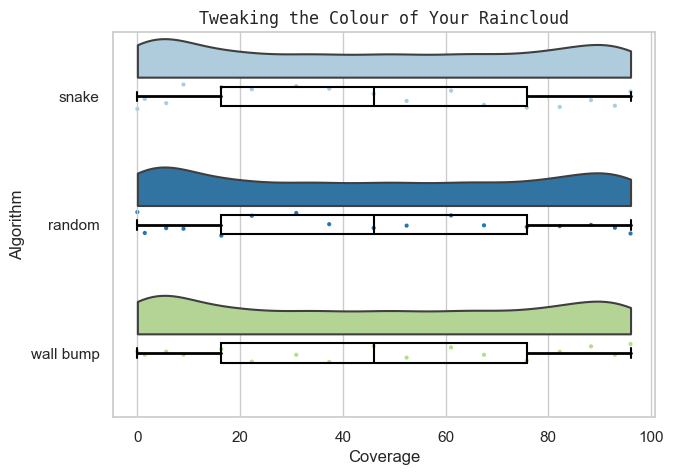
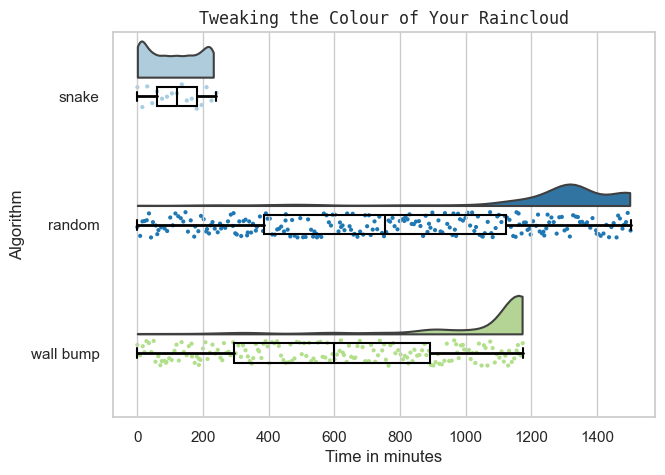
2D-plot: violins working

diff --git a/2D-plot/violin-box-plot/rain_cloud.py b/2D-plot/violin-box-plot/rain_cloud.py
@@ -1,86 +1,58 @@
+from audioop import mul
 import pandas as pd
 import seaborn as sns
-import os
 import matplotlib.pyplot as plt
-#sns.set(style="darkgrid")
-#sns.set(style="whitegrid")
-#sns.set_style("white")
 sns.set(style="whitegrid",font_scale=1)
-import matplotlib.collections as clt
 import ptitprince as pt
-import matplotlib.colors as mcolors
 
 mono_font = {'fontname':'monospace'}
 
 # read data into dataframe
-data = {'Coverage': [0.0,1.4423076923076934,5.608974358974365,8.974358974358978,16.34615384615384,22.275641025641022,30.929487179487182,37.33974358974359,45.993589743589745,52.40384615384615,61.05769230769231,67.46794871794872,75.80128205128204,82.21153846153845,88.30128205128204,92.94871794871796,95.99358974358974,0.0,1.4423076923076934,5.608974358974365,8.974358974358978,16.34615384615384,22.275641025641022,30.929487179487182,37.33974358974359,45.993589743589745,52.40384615384615,61.05769230769231,67.46794871794872,75.80128205128204,82.21153846153845,88.30128205128204,92.94871794871796,95.99358974358974,0.0,1.4423076923076934,5.608974358974365,8.974358974358978,16.34615384615384,22.275641025641022,30.929487179487182,37.33974358974359,45.993589743589745,52.40384615384615,61.05769230769231,67.46794871794872,75.80128205128204,82.21153846153845,88.30128205128204,92.94871794871796,95.99358974358974],
-        'Algorithm': ['snake','snake','snake','snake','snake','snake','snake','snake','snake','snake','snake','snake','snake','snake','snake','snake','snake','random','random','random','random','random','random','random','random','random','random','random','random','random','random','random','random','random','wall bump','wall bump','wall bump','wall bump','wall bump','wall bump','wall bump','wall bump','wall bump','wall bump','wall bump','wall bump','wall bump','wall bump','wall bump','wall bump','wall bump']
+s = ['snake'] * 17
+r = ['random'] * 230
+w = ['wall bump'] * 178
+s.extend(r)
+s.extend(w)
+
+c1 = [0.0,1.4423076923076934,5.608974358974365,8.974358974358978,16.34615384615384,22.275641025641022,30.929487179487182,37.33974358974359,45.993589743589745,52.40384615384615,61.05769230769231,67.46794871794872,75.80128205128204,82.21153846153845,88.30128205128204,92.94871794871796,95.99358974358974]
+c2 = [0.0,9.71039182282793,14.650766609880748,16.183986371379902,19.250425894378196,24.190800681431,27.086882453151617,28.44974446337308,31.345826235093696,32.027257240204435,32.53833049403748,34.24190800681431,36.456558773424184,37.819420783645654,45.31516183986371,51.277683134582624,53.321976149914825,57.240204429301535,58.94378194207837,63.373083475298124,66.7802385008518,68.31345826235093,68.31345826235093,73.42419080068143,73.59454855195912,73.7649063032368,73.7649063032368,73.93526405451448,75.12776831345826,75.46848381601363,75.63884156729131,75.63884156729131,75.63884156729131,76.32027257240205,76.66098807495742,76.66098807495742,76.66098807495742,76.8313458262351,77.68313458262351,78.53492333901193,78.8756388415673,79.55706984667802,79.55706984667802,79.55706984667802,79.89778534923339,80.23850085178876,80.23850085178876,80.9199318568995,80.9199318568995,81.09028960817717,81.7717206132879,82.62350936967633,82.793867120954,82.793867120954,82.793867120954,82.96422487223168,82.96422487223168,82.96422487223168,82.96422487223168,83.13458262350937,83.13458262350937,83.13458262350937,83.13458262350937,83.47529812606473,84.15672913117547,84.32708688245314,84.66780238500851,84.66780238500851,84.66780238500851,84.66780238500851,84.66780238500851,84.66780238500851,84.66780238500851,84.66780238500851,84.66780238500851,84.66780238500851,84.66780238500851,84.66780238500851,86.20102214650767,87.22316865417376,87.22316865417376,87.22316865417376,87.22316865417376,87.22316865417376,87.22316865417376,87.39352640545145,87.9045996592845,87.9045996592845,87.9045996592845,87.9045996592845,87.9045996592845,87.9045996592845,87.9045996592845,88.07495741056218,88.07495741056218,88.07495741056218,88.07495741056218,88.07495741056218,88.24531516183987,88.24531516183987,88.24531516183987,88.24531516183987,88.24531516183987,88.24531516183987,88.24531516183987,88.24531516183987,88.24531516183987,88.24531516183987,88.24531516183987,88.24531516183987,88.24531516183987,88.24531516183987,88.24531516183987,88.24531516183987,88.24531516183987,88.24531516183987,88.41567291311755,88.41567291311755,88.41567291311755,88.41567291311755,88.41567291311755,88.41567291311755,88.41567291311755,88.41567291311755,88.41567291311755,88.41567291311755,88.41567291311755,88.41567291311755,88.41567291311755,88.41567291311755,88.41567291311755,88.41567291311755,88.41567291311755,88.41567291311755,88.41567291311755,88.41567291311755,88.41567291311755,88.41567291311755,88.41567291311755,88.41567291311755,88.41567291311755,88.41567291311755,88.41567291311755,88.41567291311755,88.41567291311755,88.41567291311755,88.41567291311755,88.41567291311755,88.41567291311755,88.41567291311755,88.41567291311755,88.41567291311755,88.41567291311755,89.26746166950596,89.60817717206133,89.60817717206133,89.60817717206133,89.60817717206133,89.60817717206133,89.60817717206133,91.65247018739353,91.82282793867121,92.8449744463373,93.35604770017036,93.52640545144804,93.52640545144804,93.52640545144804,93.52640545144804,93.52640545144804,93.52640545144804,93.52640545144804,97.10391822827938,97.44463373083475,97.78534923339012,98.46678023850085,98.9778534923339,98.9778534923339,98.9778534923339,98.9778534923339,98.9778534923339,98.9778534923339,98.9778534923339,98.9778534923339,98.9778534923339,99.31856899488926,99.48892674616695,99.48892674616695,99.48892674616695,99.48892674616695,99.48892674616695,99.48892674616695,99.48892674616695,99.48892674616695,99.48892674616695,99.48892674616695,99.48892674616695,99.48892674616695,99.48892674616695,99.65928449744463,99.65928449744463,99.65928449744463,99.65928449744463,99.65928449744463,99.65928449744463,99.65928449744463,99.65928449744463,99.65928449744463,99.65928449744463,99.65928449744463,99.65928449744463,99.65928449744463,99.65928449744463,99.65928449744463,99.65928449744463,99.65928449744463,99.65928449744463,99.65928449744463,99.65928449744463,99.65928449744463,99.65928449744463,99.65928449744463,99.65928449744463,99.65928449744463,99.82964224872232,99.82964224872232,99.82964224872232,99.82964224872232,99.82964224872232,99.82964224872232,99.82964224872232]
+c3 = [0.0,8.688245315161836,16.69505962521295,21.294718909710397,24.190800681431,26.40545144804088,28.10902896081771,30.49403747870528,31.17546848381602,37.478705281090285,44.29301533219762,45.65587734241908,50.59625212947189,50.76660988074958,50.936967632027255,53.49233390119251,58.603066439523,62.180579216354346,62.86201022146508,63.03236797274276,67.12095400340715,69.84667802385009,71.37989778534923,72.91311754684838,75.29812606473595,75.29812606473595,76.49063032367972,77.00170357751277,77.17206132879046,77.17206132879046,77.17206132879046,77.17206132879046,77.34241908006814,77.34241908006814,77.68313458262351,78.19420783645656,78.70528109028962,83.64565587734242,83.98637137989778,84.32708688245314,84.49744463373084,84.49744463373084,86.20102214650767,87.56388415672913,87.73424190800681,87.73424190800681,89.43781942078364,90.45996592844975,90.45996592844975,90.45996592844975,90.45996592844975,93.18568994889267,94.54855195911414,94.71890971039183,95.0596252129472,95.22998296422487,95.40034071550255,95.57069846678024,96.25212947189097,96.76320272572401,97.10391822827938,97.27427597955707,97.61499148211243,97.61499148211243,97.61499148211243,97.61499148211243,97.9557069846678,97.9557069846678,97.9557069846678,97.9557069846678,98.29642248722317,98.46678023850085,98.46678023850085,98.46678023850085,98.46678023850085,98.46678023850085,98.46678023850085,98.46678023850085,98.46678023850085,98.46678023850085,98.63713798977854,98.80749574105621,98.80749574105621,98.80749574105621,98.80749574105621,98.80749574105621,98.80749574105621,98.80749574105621,98.80749574105621,98.80749574105621,98.80749574105621,98.80749574105621,98.9778534923339,98.9778534923339,98.9778534923339,98.9778534923339,98.9778534923339,98.9778534923339,98.9778534923339,98.9778534923339,98.9778534923339,98.9778534923339,98.9778534923339,98.9778534923339,98.9778534923339,99.14821124361158,99.14821124361158,99.14821124361158,99.14821124361158,99.14821124361158,99.14821124361158,99.14821124361158,99.14821124361158,99.14821124361158,99.14821124361158,99.14821124361158,99.14821124361158,99.14821124361158,99.14821124361158,99.14821124361158,99.14821124361158,99.31856899488926,99.31856899488926,99.31856899488926,99.31856899488926,99.31856899488926,99.31856899488926,99.31856899488926,99.31856899488926,99.31856899488926,99.31856899488926,99.31856899488926,99.31856899488926,99.31856899488926,99.31856899488926,99.31856899488926,99.31856899488926,99.31856899488926,99.31856899488926,99.31856899488926,99.31856899488926,99.31856899488926,99.31856899488926,99.31856899488926,99.31856899488926,99.31856899488926,99.31856899488926,99.31856899488926,99.65928449744463,99.65928449744463,99.65928449744463,99.65928449744463,99.65928449744463,99.65928449744463,99.65928449744463,99.82964224872232,99.82964224872232,99.82964224872232,99.82964224872232,99.82964224872232,99.82964224872232,99.82964224872232,99.82964224872232,99.82964224872232,99.82964224872232,99.82964224872232,99.82964224872232,99.82964224872232,99.82964224872232,99.82964224872232,99.82964224872232,99.82964224872232,99.82964224872232,99.82964224872232,99.82964224872232,99.82964224872232,99.82964224872232,99.82964224872232]
+
+# smooth elements over same axis
+multiple = 240.8/100
+c1 = [x*multiple for x in c1]
+multiple = 1501.75/100
+c2 = [x*multiple for x in c2]
+multiple = 1173.4833/100
+c3 = [x*multiple for x in c3]
+
+c1.extend(c2)
+c1.extend(c3)
+
+t1 = [0.0,15.05,30.1,45.15,60.2,75.25,90.3,105.35,120.4,135.45,150.5,165.55,180.6,195.65,210.7,225.75,240.8]
+t2 = [0.0,8.425,15.541667,21.775,28.491667,35.3,41.566666,47.458332,56.208332,60.658333,64.291664,72.683334,83.09167,90.73333,100.15,107.86667,115.941666,124.441666,132.36667,139.85,146.60834,154.025,162.525,173.10834,176.24167,185.725,193.775,201.85,209.775,212.125,218.19167,222.58333,228.925,235.64166,244.725,251.825,255.10834,260.18332,267.61667,275.925,284.55,290.91666,292.975,298.175,302.75,310.35,316.15833,323.20834,329.45834,334.14166,336.08334,340.425,346.23334,352.1,360.74167,363.71667,373.23334,382.7,391.26666,396.775,403.20834,410.8,418.525,425.75833,431.30832,437.96667,446.50833,451.19168,452.175,457.675,465.58334,471.175,478.71667,487.59167,496.1,504.56668,512.275,519.85,529.0417,535.1583,539.01666,544.89166,546.9583,554.88336,560.18335,567.8333,575.9667,583.18335,589.55,594.9167,601.725,612.61664,616.80835,620.3,624.95,630.60834,638.81665,646.2083,650.625,655.61664,658.0417,661.50836,670.2,678.275,687.7,693.61664,699.5833,705.13336,710.675,716.6583,722.14166,730.375,736.7,745.125,750.95,757.9083,764.85834,769.5333,777.00836,783.23334,792.2167,799.00836,808.56665,812.9167,816.49164,822.6667,828.68335,835.35,841.9167,848.24164,857.36664,862.01666,870.0917,877.99164,883.51666,888.06665,892.4,898.30835,906.35834,916.85,923.36664,928.99164,936.5,943.6667,951.2167,959.49164,962.5333,966.80835,970.575,976.5417,982.48334,991.3333,999.13336,1005.38336,1013.275,1019.38336,1026.1583,1031.35,1036.95,1042.3917,1047.9333,1051.625,1057.9833,1066.8583,1074.1167,1077.8667,1081.9833,1090.9667,1096.05,1100.7583,1108.5333,1119.2084,1125.3667,1133.1833,1137.2833,1144.4584,1151.8417,1154.5667,1160.7916,1163.425,1170.0333,1177.2583,1182.9333,1188.1833,1193.7916,1197.4333,1204.975,1214.1583,1220.0333,1225.125,1232.0416,1236.4833,1239.0917,1245.2,1249.1833,1254.0416,1260.8833,1267.8417,1276.825,1284.8083,1292.5834,1300.7833,1308.725,1316.9083,1326.925,1334.9917,1341.3583,1347.65,1354.425,1361.95,1369.4166,1379.225,1385.9333,1396.775,1398.7916,1404.125,1410.9917,1419.3917,1428.025,1436.2667,1443.5083,1450.35,1459.175,1463.9584,1469.375,1477.2167,1481.7833,1488.0834,1493.1083,1501.75]
+t3 = [0.0,8.25,16.458334,21.475,27.683332,35.1,42.691666,49.675,55.266666,63.683334,69.916664,74.40833,82.825,87.083336,88.6,97.01667,104.558334,112.975,119.15,126.35833,134.775,141.5,149.91667,156.675,165.09166,166.23334,174.65,181.25,187.29167,187.95,191.925,199.53334,207.45,213.65834,221.0,228.625,237.15,244.90834,253.05833,258.51666,263.725,271.525,277.65833,283.7,291.81668,299.18332,307.6,315.4,321.70834,329.36667,336.41666,342.38333,348.075,352.875,361.03333,367.25833,370.71667,377.71667,384.06668,390.21667,396.325,401.76666,409.9,417.00833,425.425,430.75833,437.49167,444.825,451.79166,460.20834,466.375,470.65833,478.28333,485.59167,494.23334,500.56668,507.71667,514.375,522.7917,529.35834,536.39166,543.51666,550.00836,557.51666,564.075,572.25836,578.425,586.05,594.18335,600.60834,607.74164,616.1583,619.7083,625.575,629.0,637.4167,644.24164,651.2083,659.625,663.60834,670.175,677.475,685.725,693.35,696.6583,705.075,711.7,719.45,724.4167,732.8333,738.26666,745.5,751.6,756.8417,764.9167,770.43335,778.85,785.9,794.225,801.5,808.775,814.35,821.525,825.425,831.38336,837.69165,843.64166,852.05835,858.73334,867.05835,874.49164,879.975,887.6,893.64166,901.275,908.15,915.2833,919.49164,927.025,934.8333,942.35,949.4667,957.2167,964.8333,970.875,974.00836,978.5333,985.38336,991.06665,994.99164,1002.9667,1009.7917,1014.9583,1020.775,1029.1917,1033.0167,1040.15,1048.1,1055.3583,1060.275,1066.0416,1074.4584,1081.7916,1088.4333,1094.2417,1102.5,1108.9333,1115.7667,1120.6833,1129.1,1132.0167,1139.975,1147.6,1154.7916,1158.7417,1159.7167,1167.4417,1173.4833]
+t1.extend(t2)
+t1.extend(t3)
+
+data = {
+    'Coverage': c1,
+    'Time in minutes': t1,
+    'Algorithm': s
         }
 
-df = pd.DataFrame(data, columns = ['Algorithm', 'Coverage'])
-print(df)
-
-# create bar plot
-save_figs = False
-sns.barplot(x = "Algorithm", y = "Coverage", data = df, capsize= .1)
-plt.title("Figure P1\n Bar Plot")
-if save_figs:
-    plt.savefig("box_plot_5x10.png", bbox_inches='tight')
-
-# plotting the clouds
-f, ax = plt.subplots(figsize=(7, 5))
-dy="Algorithm"; dx="Coverage"; ort="h"; pal = sns.color_palette(n_colors=1)
-
-ax=pt.half_violinplot( x = dx, y = dy, data = df, palette = pal, bw = .2, cut = 0.,
-                      scale = "area", width = .6, inner = None, orient = ort)
-
-plt.title("Figure P2\n Basic Rainclouds")
-if save_figs:
-    plt.savefig('rain_clouds_5x10.png', bbox_inches='tight')
-
-# adding the rain
-f, ax = plt.subplots(figsize=(10, 10))
-ax=pt.half_violinplot( x = dx, y = dy, data = df, palette = pal, bw = .2, cut = 0.,
-                      scale = "area", width = .6, inner = None, orient = ort)
-ax=sns.stripplot( x = dx, y = dy, data = df, palette = pal, edgecolor = "white",
-                 size = 3, jitter = 0, zorder = 0, orient = ort)
-
-plt.title("Figure P3\n Raincloud Without Jitter")
-if save_figs:
-    plt.savefig('rain_clouds_5x10.png', bbox_inches='tight')
-
-
-# adding jitter to the rain
-f, ax = plt.subplots(figsize=(7, 5))
-ax=pt.half_violinplot( x = dx, y = dy, data = df, palette = pal, bw = .2, cut = 0.,
-                      scale = "area", width = .6, inner = None, orient = ort)
-ax=sns.stripplot( x = dx, y = dy, data = df, palette = pal, edgecolor = "white",
-                 size = 3, jitter = 1, zorder = 0, orient = ort)
-
-plt.title("Figure P4\n Raincloud with Jittered Data")
-if save_figs:
-    plt.savefig('rain_clouds_5x10.png', bbox_inches='tight')
-
-#adding the boxplot with quartiles
-f, ax = plt.subplots(figsize=(7, 5))
-ax=pt.half_violinplot( x = dx, y = dy, data = df, palette = pal, bw = .2, cut = 0.,
-                      scale = "area", width = .6, inner = None, orient = ort)
-ax=sns.stripplot( x = dx, y = dy, data = df, palette = pal, edgecolor = "white",
-                 size = 3, jitter = 1, zorder = 0, orient = ort, ax = ax )
-ax=sns.boxplot( x = dx, y = dy, data = df, color = "black", width = .15, zorder = 10,\
-            showcaps = True, boxprops = {'facecolor':'none', "zorder":10},\
-            showfliers=True, whiskerprops = {'linewidth':2, "zorder":10},\
-               saturation = 1, orient = ort)
-
-plt.title("Figure P5\n Raincloud with Boxplot", **mono_font)
-if save_figs:
-    plt.savefig('rain_clouds_5x10.png', bbox_inches='tight')
+df = pd.DataFrame(data, columns = ['Algorithm', 'Time in minutes', 'Coverage'])
 
 #adding color
 pal = sns.color_palette("Paired")
 f, ax = plt.subplots(figsize=(7, 5))
+dy="Algorithm"
+dc="Coverage"
+dx="Time in minutes"
+ort="h"
+pal = sns.color_palette(pal)
 
-ax=pt.half_violinplot( x = dx, y = dy, data = df, palette = pal, bw = .2, cut = 0.,
+ax=pt.half_violinplot( x = dc, y = dy, data = df, palette = pal, bw = .2, cut = 0.,
                       scale = "area", width = .6, inner = None, orient = ort)
 ax=sns.stripplot( x = dx, y = dy, data = df, palette = pal, edgecolor = "white",
                  size = 3, jitter = 1, zorder = 0, orient = ort)
@@ -91,17 +63,5 @@ ax=sns.boxplot( x = dx, y = dy, data = df, color = "black", width = .15, zorder 
 
 save_figs=True
 plt.title("Tweaking the Colour of Your Raincloud", **mono_font)
-if save_figs:
-    plt.savefig('rain_clouds_5x10.png', bbox_inches='tight')
-
-#moving the rain below the boxplot
-dx = "Algorithm"; dy = "Coverage"; ort = "v"; sigma = .2
-f, ax = plt.subplots(figsize=(10, 10))
-
-ax=pt.RainCloud(x = dx, y = dy, data = df, palette = pal, bw = sigma,
-                 width_viol = .6, ax = ax, orient = ort, move = .2)
-
-save_figs=False
-plt.title("Figure P8\n Rainclouds with Shifted Rain", **mono_font)
 if save_figs:
     plt.savefig('rain_clouds_5x10.png', bbox_inches='tight')
